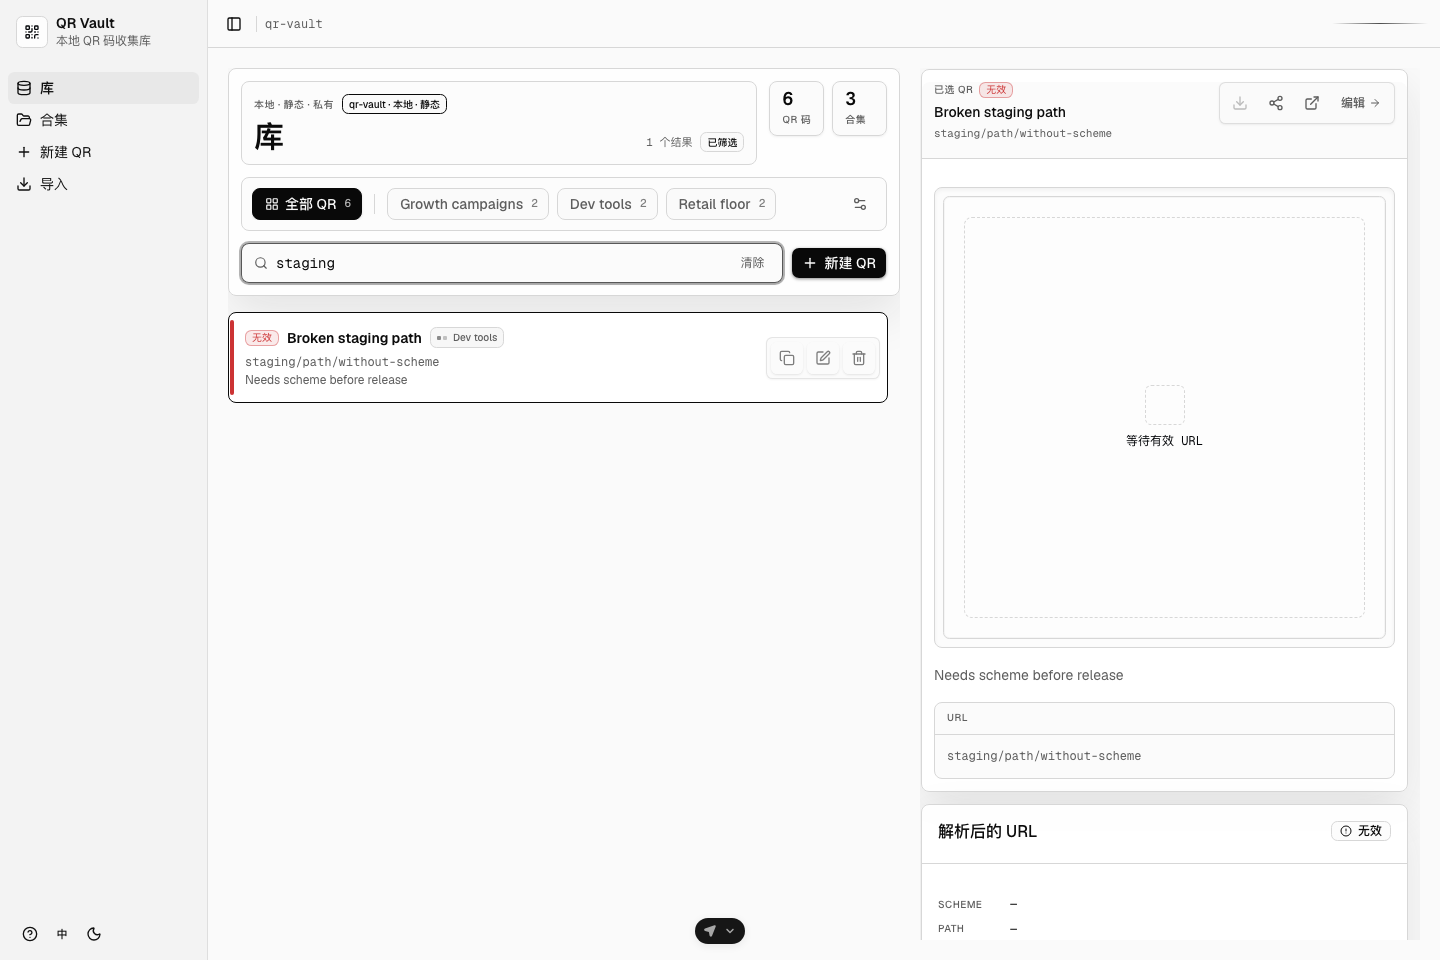
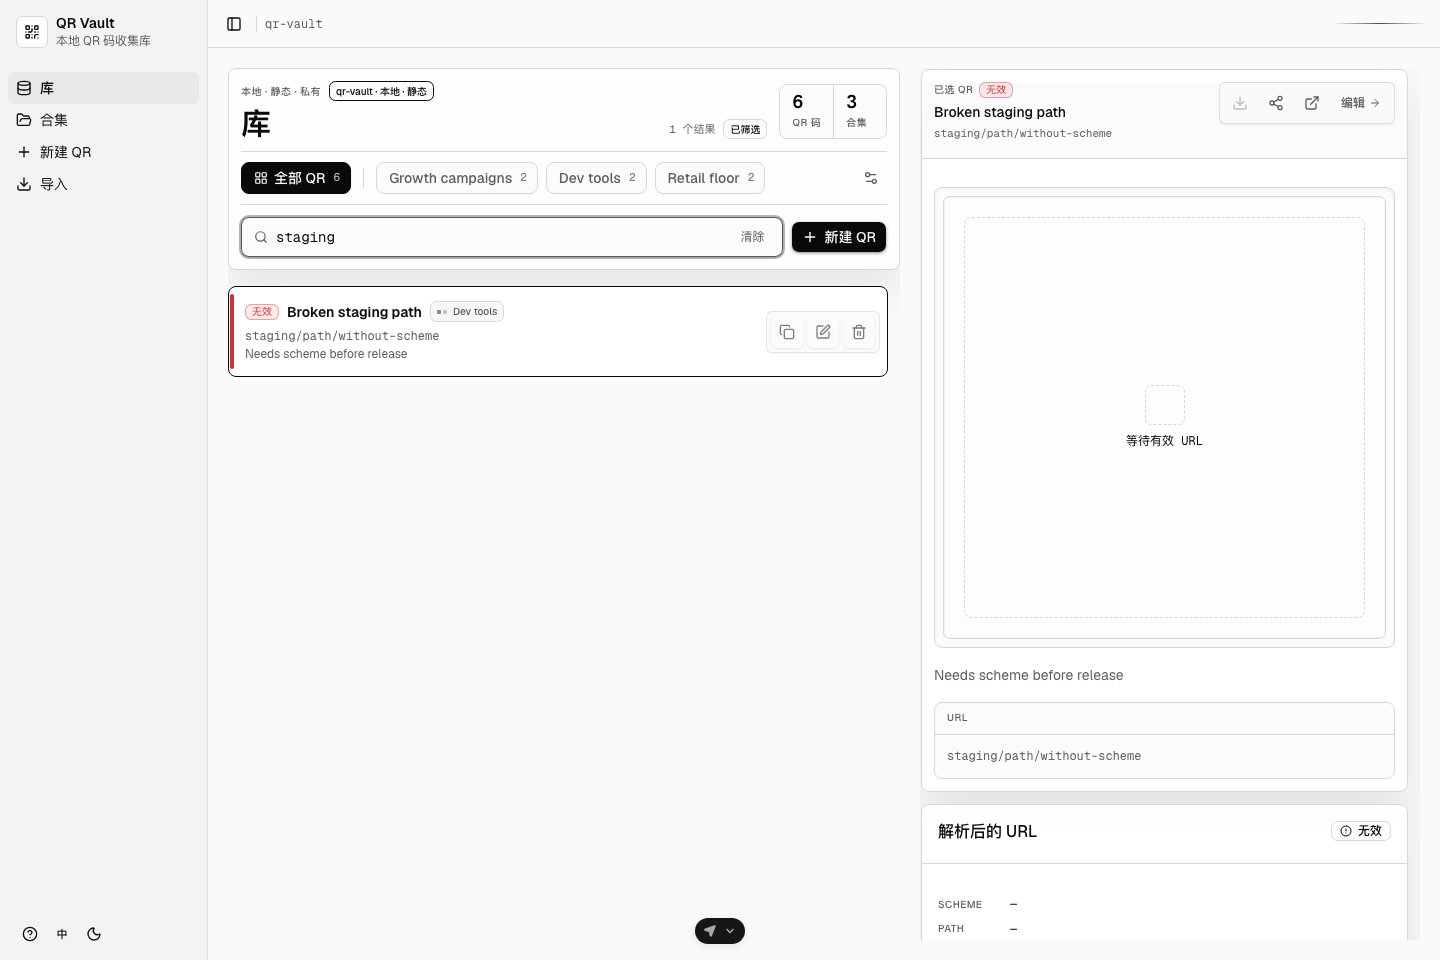
Refine qr-vault workspace header

Changed region(s): [[0.1562, 0.0938, 0.625, 0.4062], [0.5312, 0.3438, 0.5938, 0.375]]

diff --git a/apps/qr-vault/src/app/workspace/workspace-header.tsx b/apps/qr-vault/src/app/workspace/workspace-header.tsx
@@ -32,11 +32,11 @@ export function WorkspaceHeader({
 
   return (
     <section
-      className="bg-card/80 signal-panel shrink-0 space-y-3 rounded-lg border p-3 backdrop-blur-sm"
+      className="bg-card/80 signal-panel shrink-0 rounded-lg border p-3 backdrop-blur-sm"
       aria-labelledby="workspace-title"
     >
-      <div className="grid gap-3 xl:grid-cols-[minmax(0,1fr)_auto] xl:items-start">
-        <div className="bg-background/55 min-w-0 rounded-lg border p-3">
+      <div className="grid gap-3 border-b pb-3 md:grid-cols-[minmax(0,1fr)_auto] md:items-end">
+        <div className="min-w-0">
           <div className="flex flex-wrap items-center gap-2">
             <p className="text-muted-foreground text-[10px] font-medium tracking-wider uppercase">
               {t('workspace.statusLine')}
@@ -45,7 +45,7 @@ export function WorkspaceHeader({
               {t('app.footerTagline')}
             </Badge>
           </div>
-          <div className="mt-2 flex flex-col gap-2 md:flex-row md:items-end md:justify-between">
+          <div className="mt-2 flex flex-col gap-2 sm:flex-row sm:items-end sm:justify-between">
             <h1
               id="workspace-title"
               className="text-2xl leading-none font-semibold tracking-tight sm:text-3xl"
@@ -62,13 +62,13 @@ export function WorkspaceHeader({
             </div>
           </div>
         </div>
-        <div className="grid grid-cols-2 gap-2 sm:auto-cols-fr sm:grid-flow-col sm:grid-cols-none">
+        <div className="bg-background/60 grid grid-cols-2 overflow-hidden rounded-lg border">
           <SummaryPill label={t('common.qrCodes')} value={data.qrs.length} />
           <SummaryPill label={t('common.collections')} value={data.collections.length} />
         </div>
       </div>
 
-      <div className="bg-background/45 rounded-lg border p-2.5">
+      <div className="border-b py-2.5">
         <CollectionChipRow
           data={data}
           uncategorizedCount={uncategorizedCount}
@@ -77,7 +77,7 @@ export function WorkspaceHeader({
         />
       </div>
 
-      <div className="grid gap-2 lg:grid-cols-[minmax(0,1fr)_auto] lg:items-center">
+      <div className="grid gap-2 pt-3 lg:grid-cols-[minmax(0,1fr)_auto] lg:items-center">
         <div className="focus-within:border-ring/70 focus-within:ring-ring/30 bg-background/80 flex h-10 min-w-0 items-center gap-2 rounded-lg border px-3 shadow-sm transition-colors focus-within:ring-2">
           <Search className="text-muted-foreground size-3.5 shrink-0" />
           <input
@@ -112,7 +112,7 @@ export function WorkspaceHeader({
 
 function SummaryPill({ label, value }: { label: string; value: number }) {
   return (
-    <div className="bg-background/70 text-card-foreground shadow-foreground/5 min-w-0 rounded-lg border px-3 py-2 shadow-sm">
+    <div className="text-card-foreground min-w-0 border-l px-3 py-2 first:border-l-0">
       <div className="font-mono text-lg leading-none font-semibold text-[var(--signal)] tabular-nums">
         {value}
       </div>
